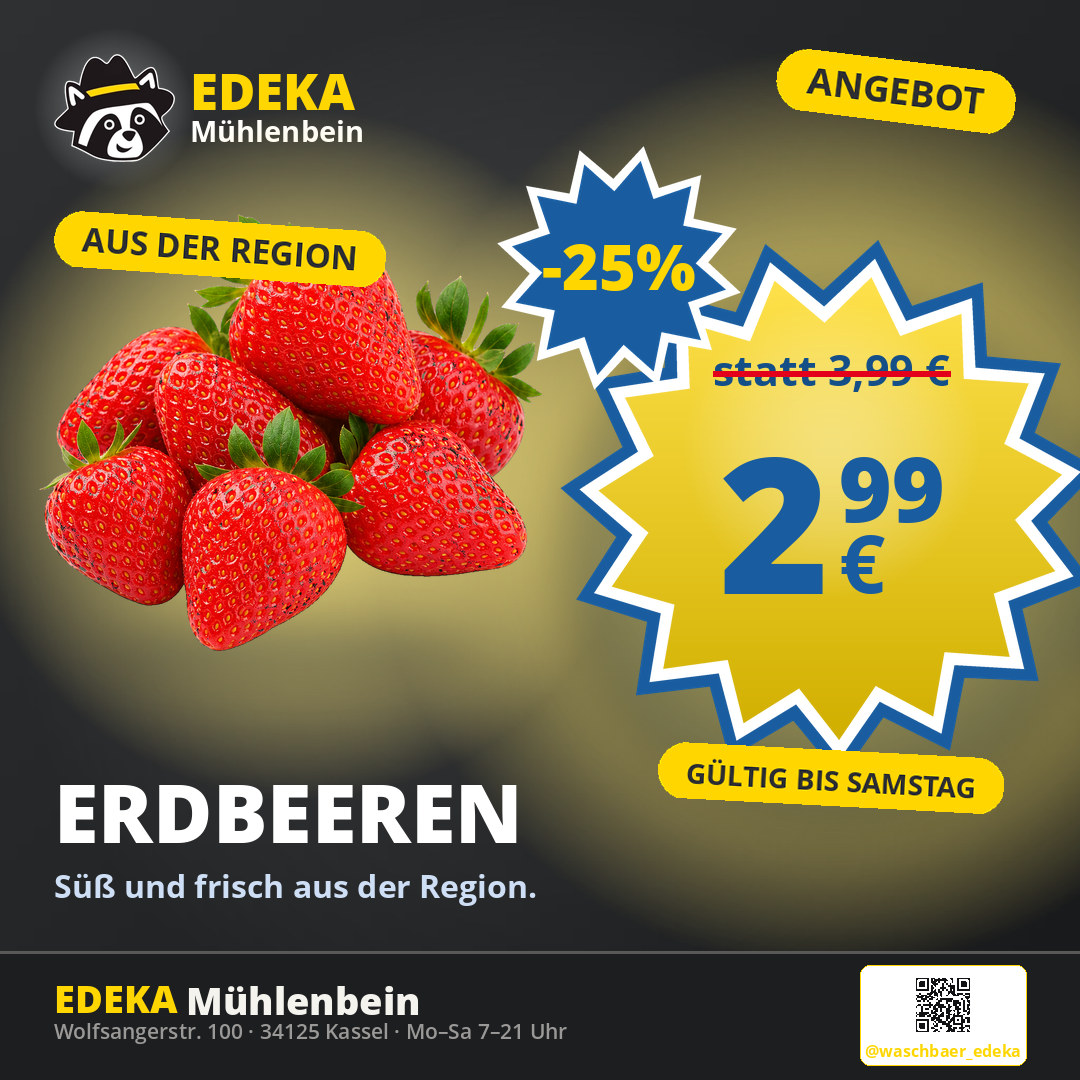
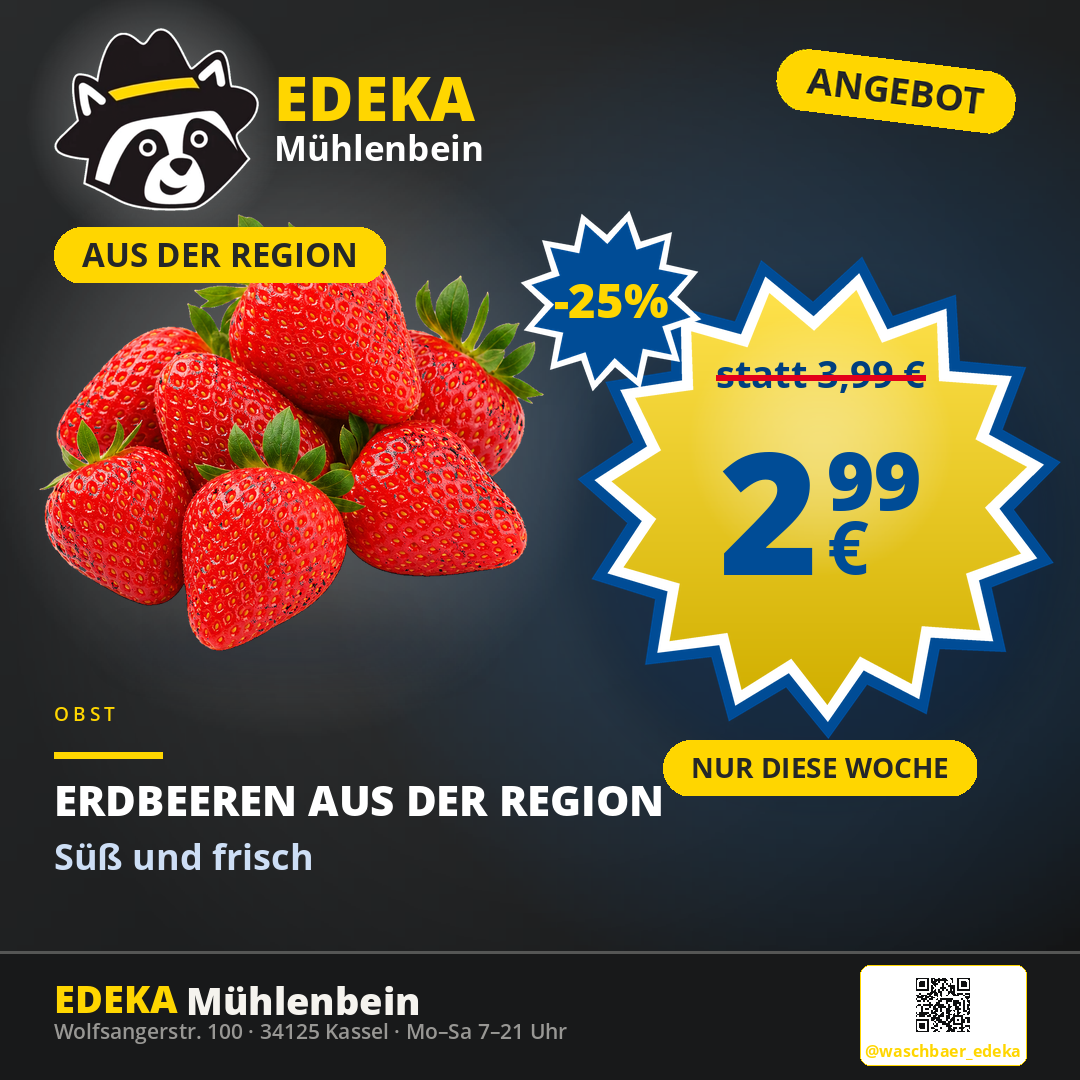
Redesign EDEKA Style and add the Wochenangebote prospekt layout
- clean anthracite page with blue depth glow and neutral product spotlight (no muddy yellow washes)
- structured price column: statt line above the star, straight validity pill, discount burst pinned to the seal; statt moves back inside when XL seals leave no room
- yellow kicker + rule headline hierarchy; Waschbär becomes the hero when no product photo exists
- multi-item grid layout (2-6 offer cards) with per-item motif, price and discount badge
- word-boundary keyword matching so "Fleisch" no longer pulls the ice-cream motif
- refreshed landing example images

diff --git a/backend/app/services/composer.py b/backend/app/services/composer.py
@@ -548,17 +548,23 @@ def _event_detail_cards(spec: PromotionSpec, day: str, time_value: str) -> list[
     ]
 
 
+def _keyword_hit(keyword: str, haystack: str) -> bool:
+    """Word-boundary match so short keywords never hit inside other words
+    (e.g. 'eis' must not match 'fleisch')."""
+    return re.search(rf"(?<![a-zäöüß]){re.escape(keyword)}(?![a-zäöüß])", haystack) is not None
+
+
 def _resolve_builtin_asset(spec: PromotionSpec) -> Path | None:
     haystack = _normalize(f"{spec.product} {spec.category or ''}")
     for asset_name, keywords in PRODUCT_ASSETS.items():
-        if any(keyword in haystack for keyword in keywords):
+        if any(_keyword_hit(keyword, haystack) for keyword in keywords):
             path = PRODUCT_ASSET_DIR / f"{asset_name}.png"
             if path.exists():
                 return path
-    if any(word in haystack for word in FRUIT_WORDS):
+    if any(_keyword_hit(word, haystack) for word in FRUIT_WORDS):
         path = PRODUCT_ASSET_DIR / "mixed_fruit.png"
         return path if path.exists() else None
-    if any(word in haystack for word in VEGETABLE_WORDS):
+    if any(_keyword_hit(word, haystack) for word in VEGETABLE_WORDS):
         path = PRODUCT_ASSET_DIR / "mixed_vegetables.png"
         return path if path.exists() else None
     return None
@@ -892,6 +898,7 @@ def _draw_price_star(
     primary: tuple[int, int, int],
     accent: tuple[int, int, int],
     rot_deg: float = -8.0,
+    include_statt: bool = True,
 ):
     """The classic 'Knallerpreis' star seal with the big price inside."""
     draw = ImageDraw.Draw(canvas)
@@ -920,7 +927,7 @@ def _draw_price_star(
     inner = int(radius * 0.72)
     # "statt" struck-through old price at the upper area.
     top_cursor = cy - int(inner * 0.78)
-    if spec.old_price and not _is_event(spec):
+    if include_statt and spec.old_price and not _is_event(spec):
         old_text = f"statt {spec.old_price}"
         of = _fit_font_width(draw, old_text, FONT_PATH_BOLD, int(inner * 1.5), int(radius * 0.16), int(radius * 0.09))
         ob = draw.textbbox((0, 0), old_text, font=of)
@@ -1340,12 +1347,12 @@ def _draw_product_or_name(canvas, draw, spec, product_zone, name_color, fill_sca
         return False
 
 
-def _draw_validity_tag(canvas, spec, cx, cy, height, accent, primary):
+def _draw_validity_tag(canvas, spec, cx, cy, height, accent, primary, angle: float = -3.0):
     # Show the validity exactly as entered (e.g. "nur heute", "KW 24",
     # "bis 22.06.") — no automatic "nur" prefix.
     max_bottom = canvas.height - int(canvas.height * 0.125)
     max_w = int(canvas.width * 0.54)
-    _draw_tag(canvas, spec.validity, cx, cy, height, accent, primary, angle=-3.0, max_w=max_w, max_bottom=max_bottom)
+    _draw_tag(canvas, spec.validity, cx, cy, height, accent, primary, angle=angle, max_w=max_w, max_bottom=max_bottom)
 
 
 def _context_tags(spec: PromotionSpec) -> list[tuple[str, tuple[int, int, int], tuple[int, int, int]]]:
@@ -2376,93 +2383,121 @@ def _build_style_config(
                        round(star_scale, 3), halo, spot, force_region)
 
 
-def _layout_post(canvas: Image.Image, spec: PromotionSpec, cfg: StyleConfig):
+def _knaller_statt(canvas, spec, cx, y, height, primary):
+    """Struck-through 'statt' price as its own line above the star — outside the
+    seal so the price inside can breathe."""
+    if not spec.old_price or _is_event(spec):
+        return
+    draw = ImageDraw.Draw(canvas)
+    text = f"statt {spec.old_price}"
+    font = _fit_font_height(draw, text, FONT_PATH_BOLD, height, height, int(height * 0.6))
+    b = draw.textbbox((0, 0), text, font=font)
+    tw, th = b[2] - b[0], b[3] - b[1]
+    x = cx - tw // 2
+    draw.text((x - b[0] + 2, y - b[1] + 2), text, fill=(0, 0, 0, 120), font=font)
+    draw.text((x - b[0], y - b[1]), text, fill=(226, 230, 238), font=font)
+    draw.line((x - th * 0.2, y + th * 0.58, x + tw + th * 0.2, y + th * 0.42), fill=RED, width=max(3, height // 8))
+
+
+def _layout_knaller(canvas: Image.Image, spec: PromotionSpec, cfg: StyleConfig):
+    """EDEKA Style (Knaller): anthracite page, blue depth, yellow price star.
+
+    One structured composition for all formats: brand row on top, product hero
+    left with a clean neutral spotlight, price column right (statt → star →
+    validity), headline block with yellow kicker rule at the bottom.
+    """
     w, h = canvas.size
-    margin = int(w * 0.05)
+    ratio = h / w
+    tall = ratio > 1.12
+    margin = int(w * (0.06 if tall else 0.05))
     white = (255, 255, 255)
-    primary, accent = cfg.primary, cfg.accent
+    primary, accent, secondary = cfg.primary, cfg.accent, cfg.secondary
     _paint_background(canvas, cfg)
     draw = ImageDraw.Draw(canvas)
 
-    # Soft warm halo behind the star (intensity from Kreativniveau).
-    star_cx, star_cy, star_r = int(w * 0.77), int(h * 0.47), int(w * 0.22 * cfg.star_scale)
-    _draw_spotlight(canvas, star_cx, star_cy, int(star_r * 1.7), _lighten(accent, 0.45), cfg.halo_alpha)
+    if ratio > 1.5:  # Story
+        brand_h, badge_y, badge_h = int(h * 0.080), int(h * 0.066), int(h * 0.040)
+        star_cx, star_cy, star_r = int(w * 0.68), int(h * 0.50), int(w * 0.24 * cfg.star_scale)
+        prod = Zone(int(w * 0.035), int(h * 0.165), int(w * 0.55), int(h * 0.42))
+        tag_y, tag_h = int(h * 0.145), int(w * 0.052)
+        head = Zone(margin, int(h * 0.68), int(w * 0.84), int(h * 0.135))
+    elif tall:  # Poster A4/A5
+        brand_h, badge_y, badge_h = int(h * 0.074), int(h * 0.052), int(h * 0.034)
+        star_cx, star_cy, star_r = int(w * 0.70), int(h * 0.475), int(w * 0.245 * cfg.star_scale)
+        prod = Zone(int(w * 0.035), int(h * 0.115), int(w * 0.58), int(h * 0.44))
+        tag_y, tag_h = int(h * 0.105), int(w * 0.046)
+        head = Zone(margin, int(h * 0.705), int(w * 0.76), int(h * 0.125))
+    else:  # Post 1:1
+        brand_h, badge_y, badge_h = int(h * 0.10), int(h * 0.085), int(h * 0.058)
+        star_cx, star_cy, star_r = int(w * 0.76), int(h * 0.46), int(w * 0.225 * cfg.star_scale)
+        prod = Zone(int(w * 0.04), int(h * 0.20), int(w * 0.46), int(h * 0.40))
+        tag_y, tag_h = int(h * 0.205), int(w * 0.052)
+        head = Zone(margin, int(h * 0.70), int(w * 0.62), int(h * 0.14))
 
-    bl = _draw_brand_lockup(canvas, margin, int(h * 0.05), int(h * 0.10), accent)
-    _draw_angebot_badge(canvas, int(w * 0.83), int(h * 0.085), int(h * 0.058), accent, primary, _offer_label(spec))
+    # Big seals (XL/auffällig) must never crowd the brand row: shift the star
+    # down as it grows instead of letting it collide with badge and lockup.
+    top_limit = badge_y + int(badge_h * 2.0)
+    star_cy = max(star_cy, top_limit + int(star_r * 1.04))
 
-    # Product hero on the left, lifted by a warm spotlight.
-    _draw_spotlight(canvas, int(w * 0.28), int(h * 0.42), int(w * 0.32), _lighten(accent, 0.5), cfg.spotlight_alpha)
-    _draw_product_or_name(canvas, draw, spec, Zone(int(w * 0.04), int(h * 0.20), int(w * 0.46), int(h * 0.40)), white, fill_scale=1.02)
+    # Depth: a deep-blue glow anchors the price column, a neutral white
+    # spotlight lifts the product — no yellow washes that muddy the anthracite.
+    _draw_spotlight(canvas, star_cx, star_cy, int(star_r * 2.1), _lighten(secondary, 0.12), min(120, int(cfg.halo_alpha * 0.75)))
+    _draw_spotlight(canvas, prod.cx, prod.cy, int(prod.w * 0.62), (255, 255, 255), max(28, int(cfg.spotlight_alpha * 0.34)))
 
-    _draw_context_tags(canvas, spec, margin, max(int(h * 0.205), bl + int(h * 0.015)), int(w * 0.052), force_region=cfg.force_region, brand_bg=accent, brand_fg=primary)
+    bl = _draw_brand_lockup(canvas, margin, int(h * (0.04 if tall else 0.05)), brand_h, accent)
+    _draw_angebot_badge(canvas, int(w * (0.79 if tall else 0.83)), badge_y, badge_h, accent, primary, _offer_label(spec))
 
-    _draw_price_star(canvas, spec, star_cx, star_cy, star_r, cfg.secondary, accent)
+    product = _load_product_image(spec, (int(prod.w * (1.02 if not tall else 1.04)), int(prod.h * (1.02 if not tall else 1.04))))
+    if product:
+        _draw_soft_shadow(canvas, prod.cx - int(prod.w * 0.26), int(prod.y + prod.h * 0.92), int(prod.w * 0.52), max(8, int(prod.h * 0.05)), blur=max(14, prod.w // 16), intensity=80)
+        _draw_product(canvas, product, prod.cx, prod.cy, angle=0.0)
+    else:
+        # No photo: the Waschbär becomes the hero — the headline below already
+        # carries the product name, so nothing is duplicated.
+        mascot = _load_mascot(int(prod.h * 0.78))
+        if mascot is not None:
+            _draw_soft_shadow(canvas, prod.cx - int(mascot.width * 0.32), prod.y + int(prod.h * 0.86), int(mascot.width * 0.64), max(8, int(prod.h * 0.05)), blur=max(14, prod.w // 16), intensity=70)
+            canvas.alpha_composite(mascot, (prod.cx - mascot.width // 2, prod.cy - mascot.height // 2))
+        else:
+            _draw_product_or_name(canvas, draw, spec, prod, white)
+
+    _draw_context_tags(canvas, spec, margin, max(tag_y, bl + int(h * 0.015)), tag_h, angle=0.0,
+                       force_region=cfg.force_region, brand_bg=accent, brand_fg=primary)
+
+    # Price column: statt above, star with the pure price, validity below.
+    # If the seal grew so large that the statt line has no room, it moves back
+    # inside the star instead of colliding with the brand row.
+    statt_y = int(star_cy - star_r * 1.30)
+    statt_outside = bool(spec.old_price) and not _is_event(spec) and statt_y > top_limit
+    if statt_outside:
+        _knaller_statt(canvas, spec, star_cx, statt_y, int(star_r * 0.17), primary)
+    _draw_price_star(canvas, spec, star_cx, star_cy, star_r, secondary, accent, include_statt=not statt_outside)
     discount = _discount_percent(spec.old_price or "", spec.price)
     if discount:
-        _draw_discount_burst_colored(canvas, discount, int(star_cx - star_r * 0.78), int(star_cy - star_r * 0.88), int(star_r * 0.46), cfg.secondary, accent)
-    _draw_validity_tag(canvas, spec, star_cx, int(star_cy + star_r * 1.0), int(w * 0.052), accent, primary)
+        _draw_discount_burst_colored(canvas, discount, int(star_cx - star_r * 0.86), int(star_cy - star_r * 0.80), int(star_r * 0.38), secondary, accent)
+    _draw_validity_tag(canvas, spec, star_cx, int(star_cy + star_r * 1.12), tag_h, accent, primary, angle=0.0)
 
-    _draw_headline_block(draw, spec, Zone(margin, int(h * 0.70), int(w * 0.62), int(h * 0.14)), white, align="left", claim_color=CLAIM_LIGHT)
+    # Headline with a yellow kicker rule for clear hierarchy.
+    kicker = (spec.category or spec.origin or "").strip()
+    if kicker:
+        kh = max(10, int(h * 0.018))
+        _draw_kicker(draw, head.x, head.y - int(kh * 2.6), kicker.upper(), kh, accent)
+    rule_y = head.y - int(h * 0.004)
+    draw.rectangle((head.x, rule_y, head.x + int(w * 0.10), rule_y + max(3, int(h * 0.006))), fill=accent)
+    _draw_headline_block(draw, spec, Zone(head.x, head.y + int(h * 0.014), head.w, head.h), white, align="left", claim_color=CLAIM_LIGHT)
     # (footer handled globally by the brand banner)
+
+
+def _layout_post(canvas: Image.Image, spec: PromotionSpec, cfg: StyleConfig):
+    _layout_knaller(canvas, spec, cfg)
 
 
 def _layout_story(canvas: Image.Image, spec: PromotionSpec, cfg: StyleConfig):
-    w, h = canvas.size
-    margin = int(w * 0.06)
-    white = (255, 255, 255)
-    primary, accent = cfg.primary, cfg.accent
-    _paint_background(canvas, cfg)
-    draw = ImageDraw.Draw(canvas)
-
-    # Vertical formats keep the square-post logic: product fills the left side,
-    # while the price dominates the right-middle instead of floating alone.
-    star_cx, star_cy, star_r = int(w * 0.68), int(h * 0.49), int(w * 0.235 * cfg.star_scale)
-    _draw_spotlight(canvas, star_cx, star_cy, int(star_r * 1.8), _lighten(accent, 0.45), cfg.halo_alpha)
-
-    bl = _draw_brand_lockup(canvas, margin, int(h * 0.04), int(h * 0.080), accent)
-    _draw_angebot_badge(canvas, int(w * 0.78), int(h * 0.066), int(h * 0.04), accent, primary, _offer_label(spec))
-
-    _draw_spotlight(canvas, int(w * 0.34), int(h * 0.365), int(w * 0.45), _lighten(accent, 0.5), cfg.spotlight_alpha)
-    _draw_product_or_name(canvas, draw, spec, Zone(int(w * 0.035), int(h * 0.165), int(w * 0.68), int(h * 0.43)), white, fill_scale=1.04)
-    _draw_context_tags(canvas, spec, margin, max(int(h * 0.145), bl + int(h * 0.015)), int(w * 0.052), force_region=cfg.force_region, brand_bg=accent, brand_fg=primary)
-
-    _draw_price_star(canvas, spec, star_cx, star_cy, star_r, cfg.secondary, accent)
-    discount = _discount_percent(spec.old_price or "", spec.price)
-    if discount:
-        _draw_discount_burst_colored(canvas, discount, int(star_cx + star_r * 0.70), int(star_cy - star_r * 0.78), int(star_r * 0.35), cfg.secondary, accent)
-
-    _draw_validity_tag(canvas, spec, star_cx, int(star_cy + star_r * 1.04), int(w * 0.052), accent, primary)
-    _draw_headline_block(draw, spec, Zone(margin, int(h * 0.68), int(w * 0.84), int(h * 0.14)), white, align="left", claim_color=CLAIM_LIGHT)
-    # (footer handled globally by the brand banner)
+    _layout_knaller(canvas, spec, cfg)
 
 
 def _layout_poster(canvas: Image.Image, spec: PromotionSpec, cfg: StyleConfig):
-    w, h = canvas.size
-    margin = int(w * 0.06)
-    white = (255, 255, 255)
-    primary, accent = cfg.primary, cfg.accent
-    _paint_background(canvas, cfg)
-    draw = ImageDraw.Draw(canvas)
-
-    star_cx, star_cy, star_r = int(w * 0.69), int(h * 0.475), int(w * 0.238 * cfg.star_scale)
-    _draw_spotlight(canvas, star_cx, star_cy, int(star_r * 1.9), _lighten(accent, 0.45), cfg.halo_alpha)
-
-    bl = _draw_brand_lockup(canvas, margin, int(h * 0.035), int(h * 0.074), accent)
-    _draw_angebot_badge(canvas, int(w * 0.80), int(h * 0.052), int(h * 0.034), accent, primary, _offer_label(spec))
-
-    _draw_spotlight(canvas, int(w * 0.34), int(h * 0.35), int(w * 0.45), _lighten(accent, 0.5), cfg.spotlight_alpha)
-    _draw_product_or_name(canvas, draw, spec, Zone(int(w * 0.02), int(h * 0.115), int(w * 0.70), int(h * 0.455)), white, fill_scale=1.04)
-    _draw_context_tags(canvas, spec, margin, max(int(h * 0.105), bl + int(h * 0.015)), int(w * 0.046), force_region=cfg.force_region, brand_bg=accent, brand_fg=primary)
-
-    _draw_price_star(canvas, spec, star_cx, star_cy, star_r, cfg.secondary, accent)
-    discount = _discount_percent(spec.old_price or "", spec.price)
-    if discount:
-        _draw_discount_burst_colored(canvas, discount, int(star_cx + star_r * 0.70), int(star_cy - star_r * 0.78), int(star_r * 0.35), cfg.secondary, accent)
-
-    _draw_validity_tag(canvas, spec, star_cx, int(star_cy + star_r * 1.05), int(w * 0.046), accent, primary)
-    _draw_headline_block(draw, spec, Zone(margin, int(h * 0.705), int(w * 0.76), int(h * 0.13)), white, align="left", claim_color=CLAIM_LIGHT)
-    # (footer handled globally by the brand banner)
+    _layout_knaller(canvas, spec, cfg)
 
 
 def _auto_ai_style(spec: PromotionSpec, direction: CreativeDirection) -> str:
@@ -3094,6 +3129,133 @@ def _layout_ai(canvas: Image.Image, spec: PromotionSpec, direction: CreativeDire
 
 
 # ---------------------------------------------------------------------------
+# Wochenangebote: mehrere Angebote als Prospekt-Raster
+# ---------------------------------------------------------------------------
+
+def _draw_multi_card(canvas, spec, item, zone, accent, blue, ink, muted):
+    """Eine Angebotskarte im Wochenangebote-Raster: Motiv, Name, Preis, Rabatt."""
+    draw = ImageDraw.Draw(canvas)
+    radius = max(8, int(zone.h * 0.05))
+    _solid_panel(
+        canvas, (zone.x, zone.y, zone.x + zone.w, zone.y + zone.h), radius,
+        (255, 255, 255), (250, 251, 253),
+        top_accent=accent, accent_h=max(4, int(zone.h * 0.014)),
+    )
+    pad = int(zone.w * 0.07)
+    img_zone = Zone(zone.x + pad, zone.y + pad + int(zone.h * 0.015), zone.w - pad * 2, int(zone.h * 0.42))
+    mini = spec.model_copy(update={
+        "product": item.name,
+        "category": item.category,
+        "product_image": item.product_image,
+        "claim": None,
+        "origin": None,
+    })
+    _draw_soft_shadow(
+        canvas, img_zone.cx - int(img_zone.w * 0.24), int(img_zone.y + img_zone.h * 0.88),
+        int(img_zone.w * 0.48), max(6, int(img_zone.h * 0.07)), blur=12, intensity=55,
+    )
+    _draw_product_or_name(canvas, draw, mini, img_zone, blue)
+
+    discount = _discount_percent(item.old_price or "", item.price)
+    if discount:
+        _draw_discount_burst(
+            canvas, discount,
+            zone.x + zone.w - int(zone.w * 0.14), zone.y + int(zone.w * 0.14),
+            max(14, int(zone.w * 0.105)),
+        )
+
+    ty = zone.y + int(zone.h * 0.50)
+    nf, nlines = _fit_wrapped(
+        draw, item.name.upper(), FONT_PATH_EXTRABOLD, zone.w - pad * 2,
+        int(zone.h * 0.17), int(zone.h * 0.072), int(zone.h * 0.042),
+        max_lines=2, line_spacing=1.0,
+    )
+    ty = _draw_wrapped(draw, nlines, zone.x + pad, zone.w - pad * 2, ty, nf, ink, align="left", line_spacing=1.0)
+
+    py = ty + int(zone.h * 0.025)
+    if item.old_price:
+        of = _load_font(FONT_PATH_BOLD, int(zone.h * 0.05))
+        ot = f"statt {item.old_price}"
+        ob = draw.textbbox((0, 0), ot, font=of)
+        draw.text((zone.x + pad - ob[0], py - ob[1]), ot, fill=muted, font=of)
+        strike_y = py + (ob[3] - ob[1]) * 0.55
+        draw.line(
+            (zone.x + pad, strike_y, zone.x + pad + (ob[2] - ob[0]), strike_y),
+            fill=RED, width=max(2, zone.h // 200),
+        )
+        py += int((ob[3] - ob[1]) * 1.45)
+    price_h = min(int(zone.h * 0.17), (zone.y + zone.h - pad) - py)
+    if item.price and price_h > int(zone.h * 0.055):
+        _draw_price_value(draw, zone.x + pad, py + price_h // 2, zone.w - pad * 2, price_h, item.price, RED, align="left")
+
+
+def _layout_multi(canvas: Image.Image, spec: PromotionSpec, fmt: FormatType):
+    """Wochenangebote-Plakat: blaues Kopfband, Titel mit Zeitraum und ein
+    Prospekt-Raster aus 2-6 Angebotskarten. Der Footer kommt wie immer aus
+    compose_promotion."""
+    w, h = canvas.size
+    draw = ImageDraw.Draw(canvas)
+    ratio = h / w
+    blue = _hex_to_rgb(BRAND_BLUE)
+    yellow = _resolve_accent(spec, _hex_to_rgb(BRAND_YELLOW))
+    ink = (28, 32, 38)
+    muted = (108, 118, 130)
+    white = (255, 255, 255)
+    margin = int(w * 0.05)
+
+    canvas.paste(_vertical_gradient((w, h), (255, 255, 255), (236, 242, 249)), (0, 0))
+    draw = ImageDraw.Draw(canvas)
+
+    band_h = int(h * (0.105 if ratio > 1.3 else 0.135))
+    draw.rectangle((0, 0, w, band_h), fill=blue)
+    draw.rectangle((0, band_h, w, band_h + max(3, int(h * 0.005))), fill=yellow)
+    _draw_brand_lockup(
+        canvas, margin, int(band_h * 0.5 - h * 0.04),
+        int(h * (0.058 if ratio > 1.3 else 0.072)), yellow, sub_color=white, halo=True,
+    )
+    _draw_angebot_badge(
+        canvas, int(w * 0.86), int(band_h * 0.52),
+        int(h * (0.034 if ratio > 1.3 else 0.044)), yellow, blue, "ANGEBOTE",
+    )
+
+    ty = band_h + int(h * 0.02)
+    tf, tlines = _fit_wrapped(
+        draw, spec.product.upper(), FONT_PATH_EXTRABOLD, w - margin * 2,
+        int(h * 0.085), int(h * 0.046), int(h * 0.026), max_lines=2, line_spacing=1.0,
+    )
+    ty = _draw_wrapped(draw, tlines, margin, w - margin * 2, ty, tf, ink, align="left", line_spacing=1.0)
+    rule_y = ty + int(h * 0.008)
+    draw.rectangle((margin, rule_y, margin + int(w * 0.12), rule_y + max(3, int(h * 0.008))), fill=yellow)
+    vf = _load_font(FONT_PATH_BOLD, int(h * 0.019))
+    vt = spec.validity.upper()
+    vb = draw.textbbox((0, 0), vt, font=vf)
+    vy = ty + int(h * 0.022)
+    draw.text((margin - vb[0], vy - vb[1]), vt, fill=muted, font=vf)
+    grid_top = vy + (vb[3] - vb[1]) + int(h * 0.022)
+
+    content_bottom = h - int(h * 0.125) - int(h * 0.015)
+    items = (spec.items or [])[:6]
+    if ratio > 1.6:
+        cols = 1 if len(items) <= 3 else 2
+    else:
+        cols = 2 if len(items) <= 4 else 3
+    rows = max(1, math.ceil(len(items) / cols))
+    gap = int(w * 0.025)
+    grid_w = w - margin * 2
+    grid_h = max(1, content_bottom - grid_top)
+    cell_w = (grid_w - gap * (cols - 1)) // cols
+    cell_h = (grid_h - gap * (rows - 1)) // rows
+
+    for idx, item in enumerate(items):
+        r, c = divmod(idx, cols)
+        in_row = cols if r < rows - 1 else (len(items) - r * cols)
+        row_w = in_row * cell_w + (in_row - 1) * gap
+        x0 = margin + (grid_w - row_w) // 2 + c * (cell_w + gap)
+        y0 = grid_top + r * (cell_h + gap)
+        _draw_multi_card(canvas, spec, item, Zone(x0, y0, cell_w, cell_h), yellow, blue, ink, muted)
+
+
+# ---------------------------------------------------------------------------
 # Public API
 # ---------------------------------------------------------------------------
 
@@ -3113,7 +3275,9 @@ def compose_promotion(
     canvas = Image.new("RGBA", (cw, ch), (255, 255, 255, 255))
 
     style = (getattr(spec, "style", None) or "edeka").lower()
-    if style == "ai":
+    if spec.campaign_kind.value == "multi":
+        _layout_multi(canvas, spec, format_type)
+    elif style == "ai":
         _layout_ai(canvas, spec, direction, format_type, event_background=event_background)
     elif style == "luxe":
         _layout_luxe(canvas, spec, format_type)
